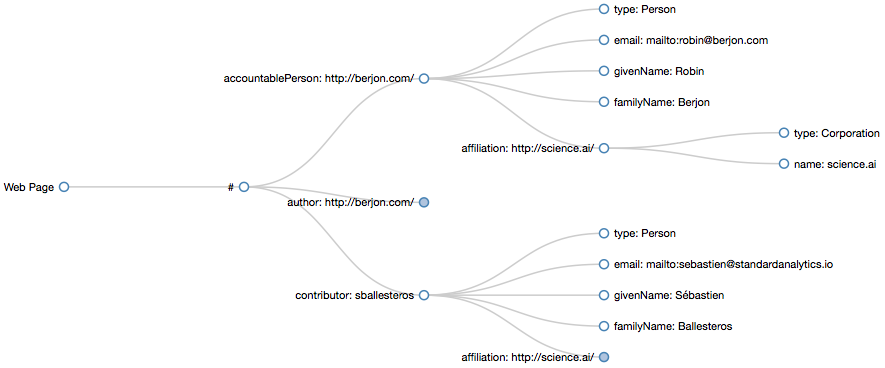
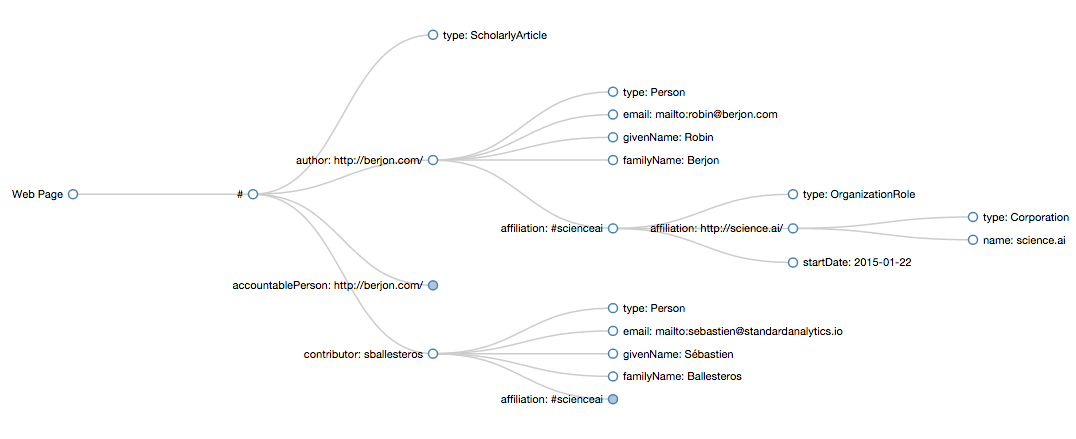
OrganizationRole close #32

diff --git a/index.html b/index.html
@@ -13,7 +13,7 @@
       <p class="title">Scholarly HTML</p>
       <p class="subtitle">Markedly Smart</p>
     </header>
-    <article id="what" typeof="schema:ScholarlyArticle" resource="http://scholarly.vernacular.io/">
+    <article id="what" typeof="schema:ScholarlyArticle" resource="#">
       <h1>What is Scholarly HTML?</h1>
       <section>
         <ol>
@@ -22,15 +22,24 @@
               <span property="schema:givenName">Robin</span>
               <span property="schema:familyName">Berjon</span>
             </a>
-            <a href="#scienceai" resource="http://science.ai/" property="schema:affiliation">a</a>
-            <sup about="http://scholarly.vernacular.io/" property="schema:accountablePerson"
-                 resource="http://berjon.com/">corresponding author</sup></li>
+            <a href="#scienceai" property="schema:affiliation" typeof="schema:OrganizationRole">
+              <span resource="http://science.ai/" property="schema:affiliation" typeof="schema:Corporation">a</span>
+              <meta property="schema:startDate" content="2015-01-22"/>
+            </a>
+            <sup about="#" property="schema:accountablePerson" resource="http://berjon.com/">
+              corresponding author
+            </sup>
+          </li>
           <li property="schema:contributor" resource="https://github.com/sballesteros" typeof="schema:Person">
             <a property="schema:email" href="mailto:sebastien@standardanalytics.io">
               <span property="schema:givenName">Sébastien</span>
               <span property="schema:familyName">Ballesteros</span>
             </a>
-            <a href="#scienceai" resource="http://science.ai/" property="schema:affiliation">a</a></li>
+            <a href="#scienceai" property="schema:affiliation" typeof="schema:OrganizationRole">
+              <span resource="http://science.ai/" property="schema:affiliation" typeof="schema:Corporation">a</span>
+              <meta property="schema:startDate" content="2015-01-22"/>
+            </a>
+          </li>
         </ol>
         <ol>
           <li id="scienceai">
@@ -475,7 +484,6 @@
             references section of this document is an example.
           </p>
 
-
           <figure typeof="schema:SoftwareSourceCode">
             <meta property="schema:name" content="html">
             <pre property="schema:programmingLanguage" typeof="schema:Language"><code class="language-html">
@@ -565,18 +573,24 @@
           &lt;span property="schema:givenName">Robin&lt;/span>
           &lt;span property="schema:familyName">Berjon&lt;/span>
         &lt;/a>
-        &lt;a href="#scienceai" resource="http://science.ai/"
-              property="schema:affiliation">a&lt;/a>
-        &lt;sup about="#" property="schema:accountablePerson"
-             resource="http://berjon.com/">corresponding author&lt;/sup>&lt;/li>
-      &lt;li property="schema:contributor" resource="https://github.com/sballesteros"
-             typeof="schema:Person">
+        &lt;a href="#scienceai" property="schema:affiliation" typeof="schema:OrganizationRole">
+          &lt;span resource="http://science.ai/" property="schema:affiliation" typeof="schema:Corporation">a&lt;/span>
+          &lt;meta property="schema:startDate" content="2015-01-22"/>
+        &lt;/a>
+        &lt;sup about="#" property="schema:accountablePerson" resource="http://berjon.com/">
+          corresponding author
+        &lt;/sup>
+      &lt;/li>
+      &lt;li property="schema:contributor" resource="https://github.com/sballesteros" typeof="schema:Person">
         &lt;a property="schema:email" href="mailto:sebastien@standardanalytics.io">
           &lt;span property="schema:givenName">Sébastien&lt;/span>
           &lt;span property="schema:familyName">Ballesteros&lt;/span>
         &lt;/a>
-        &lt;a href="#scienceai" resource="http://science.ai/"
-              property="schema:affiliation">a&lt;/a>&lt;/li>
+        &lt;a href="#scienceai" property="schema:affiliation" typeof="schema:OrganizationRole">
+          &lt;span resource="http://science.ai/" property="schema:affiliation" typeof="schema:Corporation">a&lt;/span>
+          &lt;meta property="schema:startDate" content="2015-01-22"/>
+        &lt;/a>
+      &lt;/li>
     &lt;/ol>
     &lt;ol>
       &lt;li id="scienceai">
